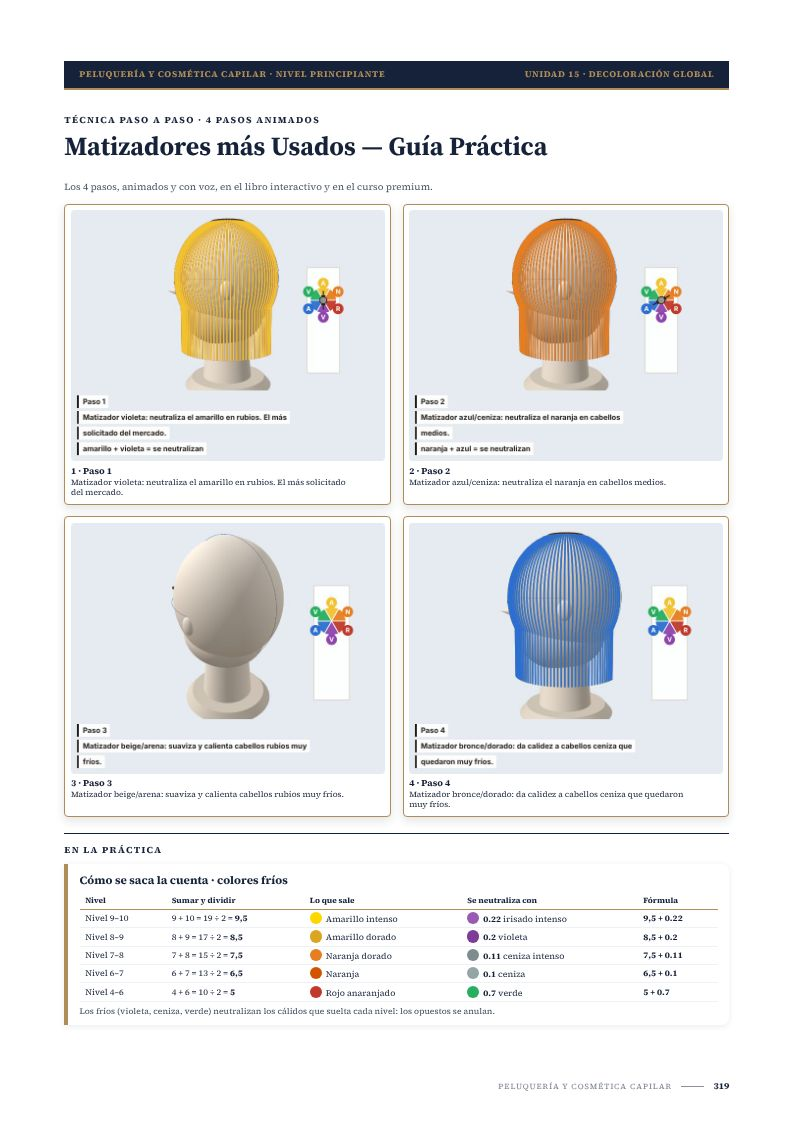
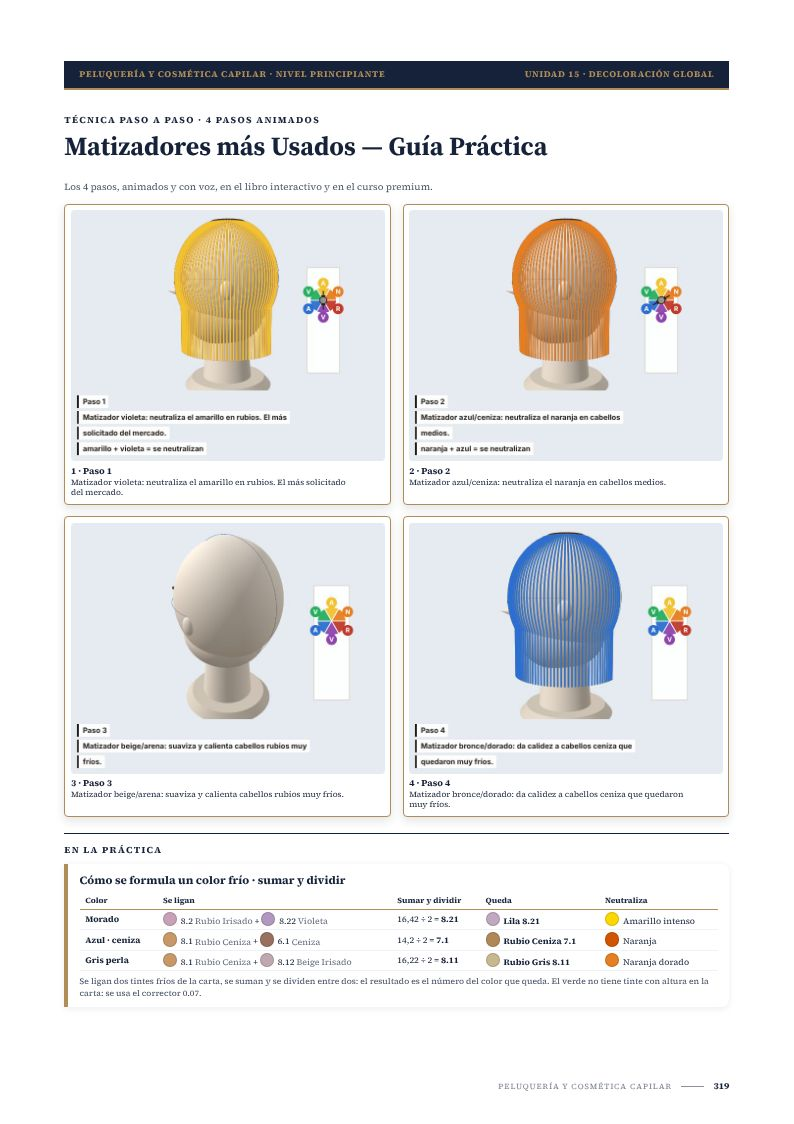
Peluquería: «Cómo se formula un color frío» en Matizadores más usados, calculado con su carta (sumar y dividir)
El sistema busca qué dos tintes fríos de su carta dan cada color frío al sumar y dividir, y lo que neutraliza según su estrella.

Claude-Session: https://claude.ai/code/session_011Pq1vHithoFwSmhgWbaCLQ

Changed region(s): [[0.0907, 0.7785, 0.7254, 0.903], [0.7557, 0.7785, 0.8766, 0.903]]

diff --git a/b6_pelu_llenar.js b/b6_pelu_llenar.js
@@ -117,35 +117,61 @@
   }
 
   function tituloAnim(tec) { var LA = window.EU_PELU_LIBRO_ANIM, d = null; try { d = LA && LA.datos ? LA.datos(tec) : null; } catch (e) { d = null; } return d && d.E && d.E.R ? String(d.E.R.n || '') : ''; }
-  /* los fríos de su estrella: [nivel a, nivel b, color que sale, su color, número frío, nombre, su color] */
+  /* 22-11-2026 (Fátima: «¿qué colores sumo para llegar a un morado, a un azul…? la misma cuenta, con la nomenclatura»):
+     con los colores de SU carta (EU_COLOR_CEREBRO.calc.colores) el sistema busca qué dos tintes, sumados y divididos entre dos,
+     dan exactamente cada color frío de la carta. Solo se ligan fríos o naturales (con un cálido el número cuadra pero el tono
+     no), y al lado va lo que ese frío neutraliza según su estrella (calc.estrella). */
+  var FRIO = /irisad|violet|lila|ceniza|gris|perla|platino/i;
+  var FAM = [['Morado', /lila|violet|irisad/i, /violet|irisad/i], ['Azul · ceniza', /ceniza|platino/i, /^0\.1\s/], ['Gris perla', /gris|perla/i, /ceniza intenso/i]];
+  function cartaColores() {
+    var B = window.EU_COLOR_CEREBRO, C = B && B.calc && B.calc.colores, out = {}; if (!C) return null;
+    Object.keys(C).forEach(function (g) { (C[g] || []).forEach(function (t) { if (t && t.c && !(t.c in out) && +t.c >= 1) out[t.c] = t; }); });
+    return out;
+  }
+  function decs(c) { return (String(c).split('.')[1] || '').length; }
   function friosEstrella() {
-    var B = window.EU_COLOR_CEREBRO, E = B && B.calc && B.calc.estrella; if (!E || !E.length) return null;
+    var T = cartaColores(); if (!T) return null;
+    var B = window.EU_COLOR_CEREBRO, E = (B.calc && B.calc.estrella) || [];
+    var cods = Object.keys(T), apto = function (c) { return FRIO.test(T[c].n) || /^\d+\.0+$/.test(c); };
     var filas = [];
-    E.forEach(function (e) {
-      var m = /(\d+)\s*-\s*(\d+)/.exec(e.r || ''), c = /^([\d.]+)\s+(.*)$/.exec(e.c || ''); if (!m || !c) return;
-      if (!/irisad|violet|ceniza|azul|verde/i.test(c[2])) return;   /* solo los fríos (el dorado es cálido) */
-      var a = +m[1], b = +m[2];
-      filas.push({ a: a, b: b, suma: a + b, mid: (a + b) / 2, p: e.p, ph: e.ph, num: c[1], nom: c[2], ch: e.ch });
+    FAM.forEach(function (F) {
+      var cand = [];
+      cods.forEach(function (t) {
+        if (!F[1].test(T[t].n)) return;
+        for (var i = 0; i < cods.length; i++) for (var j = i + 1; j < cods.length; j++) {
+          var a = cods[i], b = cods[j]; if (a === t || b === t || !apto(a) || !apto(b)) continue;
+          if (Math.abs((+a + +b) / 2 - +t) > 1e-9 || Math.max(decs(a), decs(b)) !== decs(t)) continue;
+          var frios = (FRIO.test(T[a].n) ? 1 : 0) + (FRIO.test(T[b].n) ? 1 : 0);
+          cand.push({ t: t, a: a, b: b, pt: frios * 10 - Math.abs(+a - +b) });
+        }
+      });
+      cand.sort(function (x, y) { return y.pt - x.pt; });
+      var vistos = {}, n = 0;
+      cand.forEach(function (c) {
+        if (n >= 1 || vistos[c.t]) return; vistos[c.t] = 1; n++;   /* una fila por color frío */
+        var es = E.filter(function (e) { return F[2].test(e.c || ''); })[0];
+        filas.push({ fam: F[0], a: c.a, an: T[c.a].n, ah: T[c.a].h, b: c.b, bn: T[c.b].n, bh: T[c.b].h, suma: +(+c.a + +c.b).toFixed(4), t: c.t, tn: T[c.t].n, th: T[c.t].h, neu: es ? es.p : '', neuh: es ? es.ph : '' });
+      });
     });
-    return filas.length ? { k: 'frios', keys: ['frios'], t: 'Cómo se saca la cuenta · colores fríos', filas: filas } : null;
+    return filas.length ? { k: 'frios', keys: ['frios'], t: 'Cómo se formula un color frío · sumar y dividir', filas: filas } : null;
   }
   function esquemaFrios(x, T) {
     var acc = T.acc || '#16223A', acc2 = T.acc2 || '#B08D57', soft = T.soft || '#EEF1F6', ink = T.ink || '#16223A';
     var dec = function (v) { return String(v).replace('.', ','); };
-    var pt = function (c) { return '<span style="display:inline-block;width:3.2mm;height:3.2mm;border-radius:50%;background:' + c + ';vertical-align:-0.5mm;margin-right:1mm"></span>'; };
+    var pt = function (c) { return '<span style="display:inline-block;width:3.2mm;height:3.2mm;border-radius:50%;background:' + c + ';border:.2mm solid rgba(0,0,0,.15);vertical-align:-0.5mm;margin-right:1mm"></span>'; };
     var td = 'padding:.6mm 1.5mm;border-bottom:.3mm solid ' + soft + ';vertical-align:middle;line-height:1.25';
-    var filas = x.filas.map(function (f) {
-      return '<tr><td style="' + td + '">Nivel ' + f.a + '–' + f.b + '</td>' +
-        '<td style="' + td + '">' + f.a + ' + ' + f.b + ' = ' + f.suma + ' ÷ 2 = <b>' + dec(f.mid) + '</b></td>' +
-        '<td style="' + td + '">' + pt(f.ph) + esc(f.p) + '</td>' +
-        '<td style="' + td + '">' + pt(f.ch) + '<b>' + esc(f.num) + '</b> ' + esc(f.nom.toLowerCase()) + '</td>' +
-        '<td style="' + td + '"><b>' + dec(f.mid) + ' + ' + esc(f.num) + '</b></td></tr>';
-    }).join('');
     var th = 'text-align:left;padding:.6mm 1.5mm;font-size:.92em;color:' + acc + ';border-bottom:.5mm solid ' + acc2;
+    var filas = x.filas.map(function (f) {
+      return '<tr><td style="' + td + '"><b>' + esc(f.fam) + '</b></td>' +
+        '<td style="' + td + '">' + pt(f.ah) + esc(f.a) + ' <span style="opacity:.7">' + esc(f.an.replace(/\s*[\d.]+$/, '')) + '</span> + ' + pt(f.bh) + esc(f.b) + ' <span style="opacity:.7">' + esc(f.bn.replace(/\s*[\d.]+$/, '')) + '</span></td>' +
+        '<td style="' + td + '">' + dec(f.suma) + ' ÷ 2 = <b>' + esc(f.t) + '</b></td>' +
+        '<td style="' + td + '">' + pt(f.th) + '<b>' + esc(f.tn) + '</b></td>' +
+        '<td style="' + td + '">' + (f.neu ? pt(f.neuh) + esc(f.neu) : '') + '</td></tr>';
+    }).join('');
     return '<div style="margin-top:2mm;padding:2mm 3mm;border-left:1.2mm solid ' + acc2 + ';background:#fff;border-radius:0 2mm 2mm 0;box-shadow:0 .4mm 1.6mm rgba(22,34,58,.08)">' +
       '<div style="font-weight:700;color:' + acc + ';margin:0 0 1mm;font-size:.9em">' + esc(x.t) + '</div>' +
-      '<table style="width:100%;border-collapse:collapse;font-size:.68em;color:' + ink + '"><thead><tr><th style="' + th + '">Nivel</th><th style="' + th + '">Sumar y dividir</th><th style="' + th + '">Lo que sale</th><th style="' + th + '">Se neutraliza con</th><th style="' + th + '">Fórmula</th></tr></thead><tbody>' + filas + '</tbody></table>' +
-      '<div style="font-size:.66em;margin-top:1mm;opacity:.85">Los fríos (violeta, ceniza, verde) neutralizan los cálidos que suelta cada nivel: los opuestos se anulan.</div></div>';
+      '<table style="width:100%;border-collapse:collapse;font-size:.68em;color:' + ink + '"><thead><tr><th style="' + th + '">Color</th><th style="' + th + '">Se ligan</th><th style="' + th + '">Sumar y dividir</th><th style="' + th + '">Queda</th><th style="' + th + '">Neutraliza</th></tr></thead><tbody>' + filas + '</tbody></table>' +
+      '<div style="font-size:.66em;margin-top:1mm;opacity:.85">Se ligan dos tintes fríos de la carta, se suman y se dividen entre dos: el resultado es el número del color que queda. El verde no tiene tinte con altura en la carta: se usa el corrector 0.07.</div></div>';
   }
   var VISTAS = ['queda_nuca', 'queda_lateral', 'queda_frente', 'angulos'],   /* cómo queda (atrás, lado, frente) y sus ángulos: el mismo corte */ NOESC = /preparacion|cierre|aclarad|lavado/i;
   function escenasUnidad(u) {

diff --git a/Estudio Universal Pro.dc.html b/Estudio Universal Pro.dc.html
@@ -236,7 +236,7 @@ window.EU_DIFERIDOS = ["./b6_curriculo.js?v=1798300000003",
 "./b6_interactivo_todos.js?v=1797400000002",
 "./b6_texto_auto.js?v=1797400000002",
 "./b6_hojas_llenas.js?v=1799500000001",
-"./b6_dashboard_premium.js?v=1797900000002", "./b6_pelu_fotos_libro.js?v=1798300000015", "./b6_pelu_laminas_libro.js?v=1798300000031", "./b6_pelu_videos.js?v=1798600000001", "./b6_pelu_receta.js?v=1799500000001", "./b6_pelu_llenar.js?v=1799600000004"];
+"./b6_dashboard_premium.js?v=1797900000002", "./b6_pelu_fotos_libro.js?v=1798300000015", "./b6_pelu_laminas_libro.js?v=1798300000031", "./b6_pelu_videos.js?v=1798600000001", "./b6_pelu_receta.js?v=1799500000001", "./b6_pelu_llenar.js?v=1799600000006"];
 /* Antes eran 131 peticiones (una por módulo): el Editorial tardaba medio minuto y la conexión
    se saturaba. Ahora van en DOS archivos: b6_editorial_nucleo.js (motor, currículo, cerebros…,
    lo justo para abrir el Editorial) y b6_editorial_libs.js (las bibliotecas b6_lib_* de dibujos,

diff --git a/CLAUDE.md b/CLAUDE.md
@@ -305,4 +305,4 @@ y abrir `http://localhost:8000/Estudio%20Universal%20Pro.dc.html`.
   - **Rótulos:** `b6_pelu_diagrama.js` · `armar`: en colorimetría y técnicas los rótulos van en una franja DEBAJO del maniquí (`banda: 'abajo'` en `pinta`), nunca encima de la cabeza ni del cabello; las escenas de corte no cambian.
   - **Medición:** Profesional 600 → < 60 %: de 109 en producción a 6, la mayoría láminas del Regalo sin más contenido; ninguna hoja cortada.
   - **Informes:** `informes/medicion_400_600_pelu_2026-11-22.md`; capturas en `screenshots/diseno_pelu_22-11-2026_*`.
-- 22-11-2026 (Fátima: «cada clase es un proceso; en esa clase, la nomenclatura de los colores fríos»): `b6_pelu_llenar.js` · pieza `frios` SOLO en la hoja de la clase «Matizadores más usados — Guía práctica» (`pe_animada`, por título): tabla «Cómo se saca la cuenta · colores fríos» leída de su estrella de neutralización (`EU_COLOR_CEREBRO.calc.estrella`, solo los correctores fríos: irisado, violeta, ceniza, verde). Por fila: nivel a–b, a + b ÷ 2, lo que sale (su color), con qué se neutraliza (número y color de su estrella) y la fórmula «altura media + número frío» (esta última columna es propuesta, a validar por Fátima). Ninguna otra clase lleva esta cuenta.
+- 22-11-2026 (Fátima: «¿qué colores sumo para llegar a un morado, a un azul…? la misma cuenta con la nomenclatura»): `b6_pelu_llenar.js` · pieza `frios` SOLO en la hoja de la clase «Matizadores más usados — Guía práctica» (`pe_animada`, por título): «Cómo se formula un color frío · sumar y dividir». El sistema busca en SU carta (`EU_COLOR_CEREBRO.calc.colores`) qué dos tintes fríos o naturales, sumados y divididos entre dos, dan exactamente un color frío de la carta (morado/lila, azul·ceniza, gris perla; una fila por color, priorizando pareja fría y alturas cercanas); con un cálido el número cuadra pero el tono no, así que no se usan. Al lado, lo que neutraliza según su estrella (`calc.estrella`). Verde: sin tinte con altura en la carta, corrector 0.07. Ninguna otra clase lleva esta cuenta.
